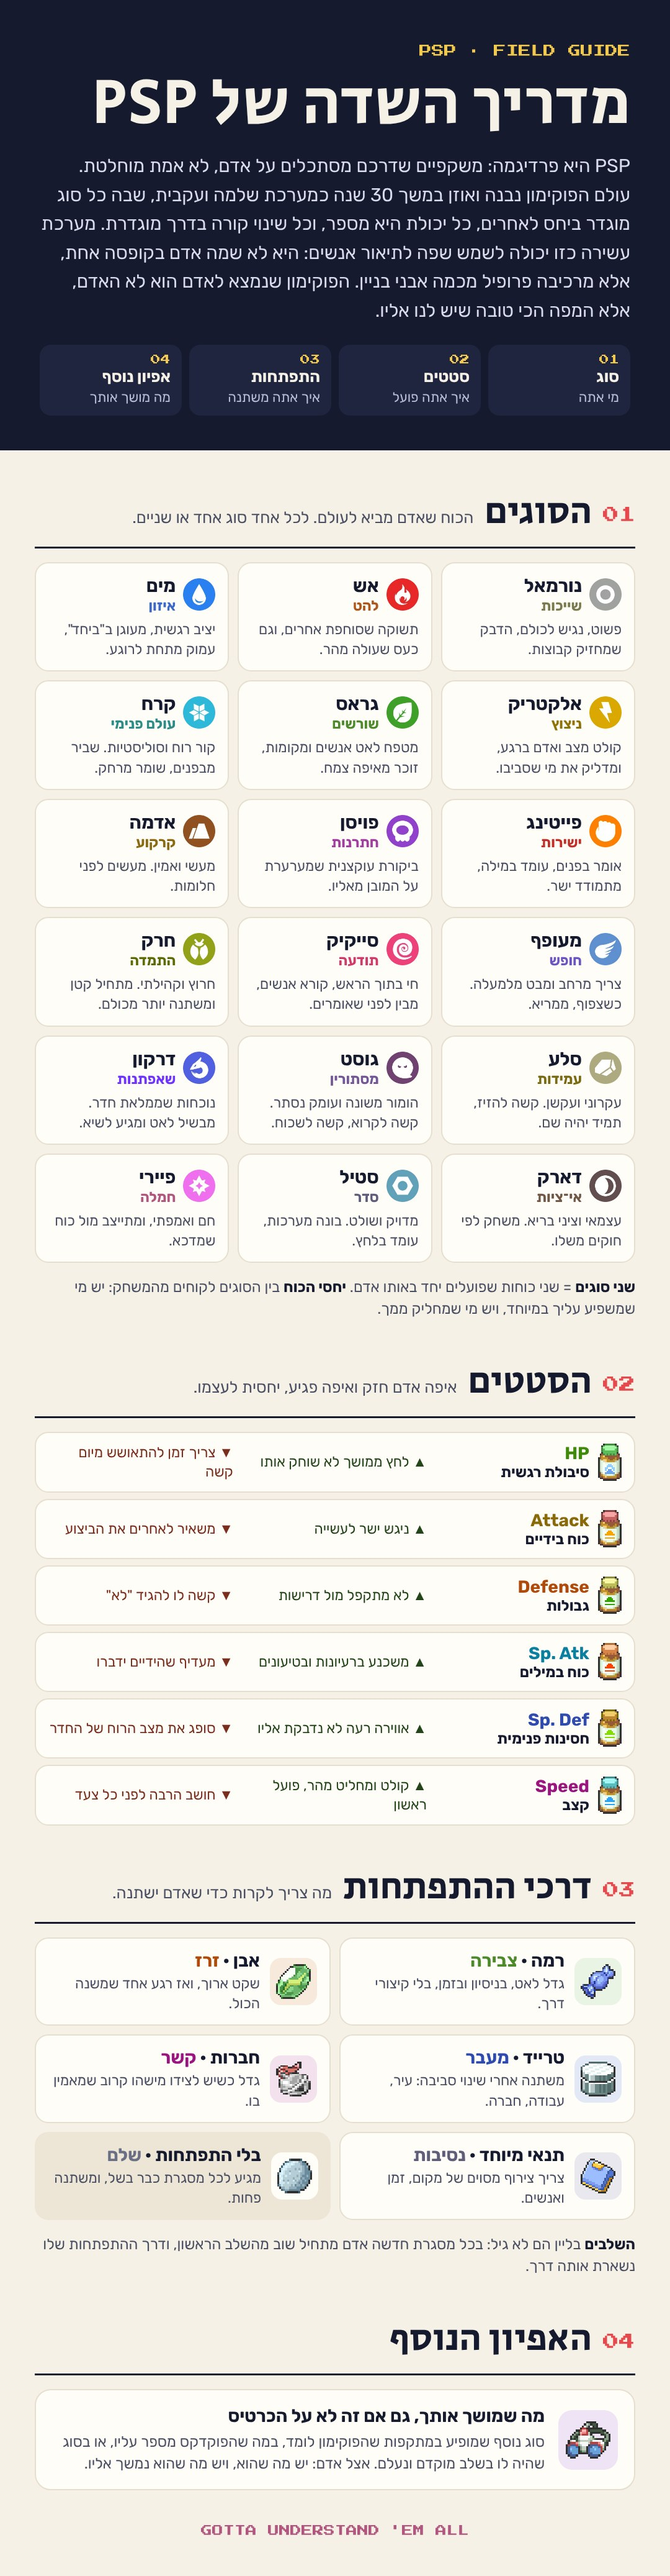
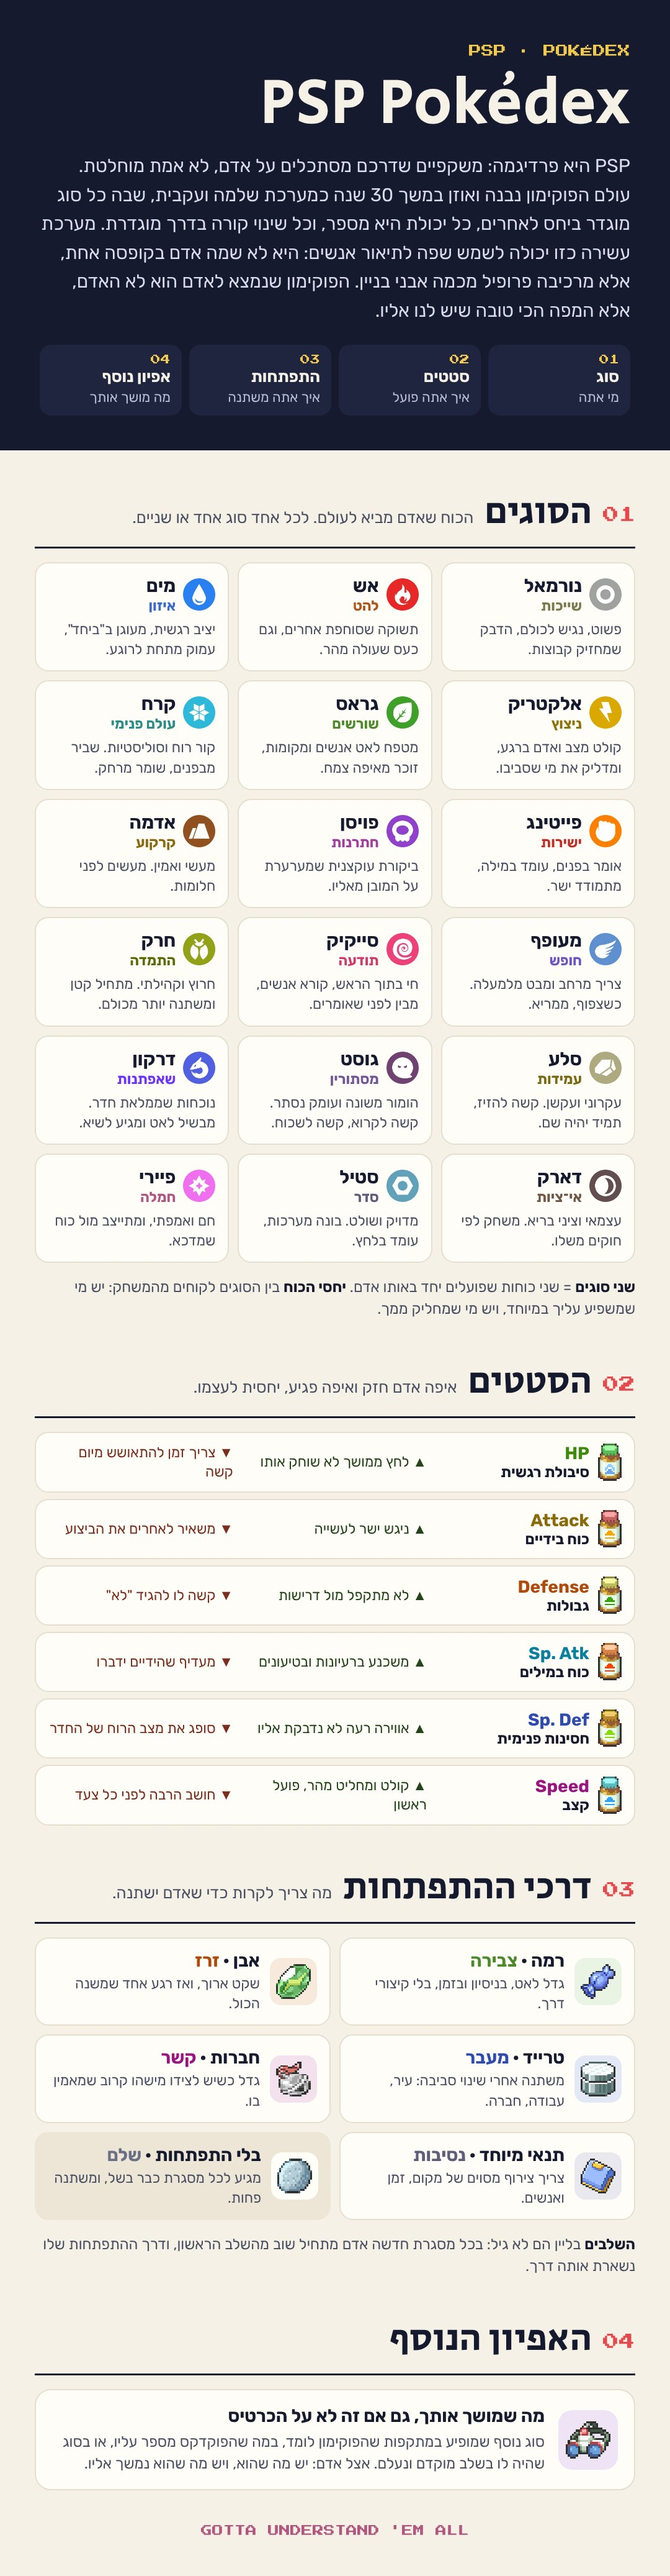
Rename the field guide to PSP Pokédex
Claude-Session: https://claude.ai/code/session_01A6zaCHmLtdTNYCfRgcgHjk

Changed region(s): [[0.1222, 0.0, 0.9472, 0.0622]]

diff --git a/index.html b/index.html
@@ -630,7 +630,7 @@ const countIds=units=>units.reduce((s,u)=>s+u.ids.length,0);
 const answeredIn=(units,ans)=>units.reduce((s,u)=>s+u.ids.filter(id=>id in ans).length,0);
 
 // ---------- state ----------
-const BUILDV='1793230960';
+const BUILDV='1793231327';
 // background music: one track at a time, crossfaded
 const BGM={cur:null,a:null};
 function fadeAudio(a,to,ms,done){if(!a)return;clearInterval(a._f);const from=a.volume,t0=performance.now();a._f=setInterval(()=>{const k=Math.min(1,(performance.now()-t0)/ms);a.volume=Math.max(0,Math.min(1,from+(to-from)*k));if(k>=1){clearInterval(a._f);done&&done()}},40)}
@@ -778,7 +778,7 @@ function assetsView(){
     <div class="card"><h3>ספרייטים של המשתתפים</h3><div class="agrid4">${ppl.map(([nm,k])=>g(`img/av-f-${k}.webp`,nm)+g(`img/av-h-${k}.webp`,nm+' · ראש')).join('')}</div></div>
     <div class="card"><h3>המאמנים של ערי</h3><div class="agrid4">${TR_KEYS.map((k,i)=>g(`img/tr-eri-${k}.webp`,'מאמן '+(i+1))).join('')}</div></div>
     <div class="card"><h3>התמונות שערי הציג</h3><div class="agrid4">${PHOTOS0.map(id=>g(`img/eri/p${id}.webp`,'תמונה '+(+id))).join('')}</div></div>
-    <div class="card"><h3>מדריך השדה</h3><div class="agrid4">${g('img/guide-he.jpg','מדריך השדה של PSP')}</div></div>
+    <div class="card"><h3>PSP Pokédex</h3><div class="agrid4">${g('img/guide-he.jpg','PSP Pokédex')}</div></div>
     <a class="btn" href="#admin=ERI1" style="text-decoration:none;text-align:center" onclick="setTimeout(()=>location.reload(),50)">לניהול הערב</a>`}
   const A=S.assets||{},n=subjectName();
   const people=[...new Set([...Object.values(A).filter(x=>x.person).map(x=>x.person),...(S.setup?.roster||[]).filter(r=>r.role!=='self').map(r=>r.name),...(S.newPeople||[])])].filter(Boolean);
@@ -1015,7 +1015,7 @@ function archCardView(code){
 function pastCardsHTML(){const L=myCards();if(!L.length)return '';return `<div class="card" style="margin-top:18px"><p style="margin:0 0 8px;font-weight:700">${L.length?'הכרטיסים שלך מערבים קודמים':'יש לך קוד של כרטיס מערב קודם?'}</p>${L.map(x=>`<a class="btn ghost small" href="#c=${esc(x.code)}" style="display:block;text-align:center;text-decoration:none;margin-bottom:6px">${esc(x.subject)} · ${esc(x.name)}</a>`).join('')}</div>`}
 const STAT_HL={hp:['תקופה ארוכה של לחץ לא שוחקת','צריך זמן להתאושש מיום קשה'],attack:['ניגש ישר לעשייה','משאיר לאחרים את הביצוע'],defense:['לא מתקפל מול דרישות','קשה להגיד "לא"'],'special-attack':['משכנע ברעיונות ובמילים','מעדיף שהידיים ידברו'],'special-defense':['אווירה רעה לא נדבקת','סופג את מצב הרוח של החדר'],speed:['קולט ומחליט מהר','חושב הרבה לפני כל צעד']};
 function deepBtn(){return `<button class="btn ghost" data-act="deep" style="margin-top:12px">⬇ עמוד העומק: הפוקימון של ${esc(subjectName())}</button>${guideBtn()}`}
-function guideBtn(){return `<a class="btn ghost" href="img/guide-he.jpg?v=${BUILDV}" download="PSP-מדריך-השדה.jpg" target="_blank" style="margin-top:8px;text-align:center;text-decoration:none">⬇ מדריך השדה של PSP: מה כל סוג, סטט והתפתחות אומרים</a>`}
+function guideBtn(){return `<a class="btn ghost" href="img/guide-he.jpg?v=${BUILDV}" download="PSP-Pokedex.jpg" target="_blank" style="margin-top:8px;text-align:center;text-decoration:none">⬇ PSP Pokédex: מה כל סוג, סטט והתפתחות אומרים</a>`}
 async function makeDeep(){if(!needEngine()){toast('רגע, טוען…');return}if(S.deepBusy)return;S.deepBusy=true;toast('מכין את עמוד העומק…');
   try{const u=await drawDeep();const a=document.createElement('a');a.href=u;a.download=`PSP-${subjectName()}.png`;document.body.append(a);a.click();a.remove();
     S.deepImg=u;const w=window.open();if(w){w.document.write(`<title>PSP</title><body style="margin:0;background:#161A2E"><img src="${u}" style="width:100%"></body>`)}}catch(e){console.error(e);toast('לא הצלחתי ליצור את העמוד')}S.deepBusy=false}
